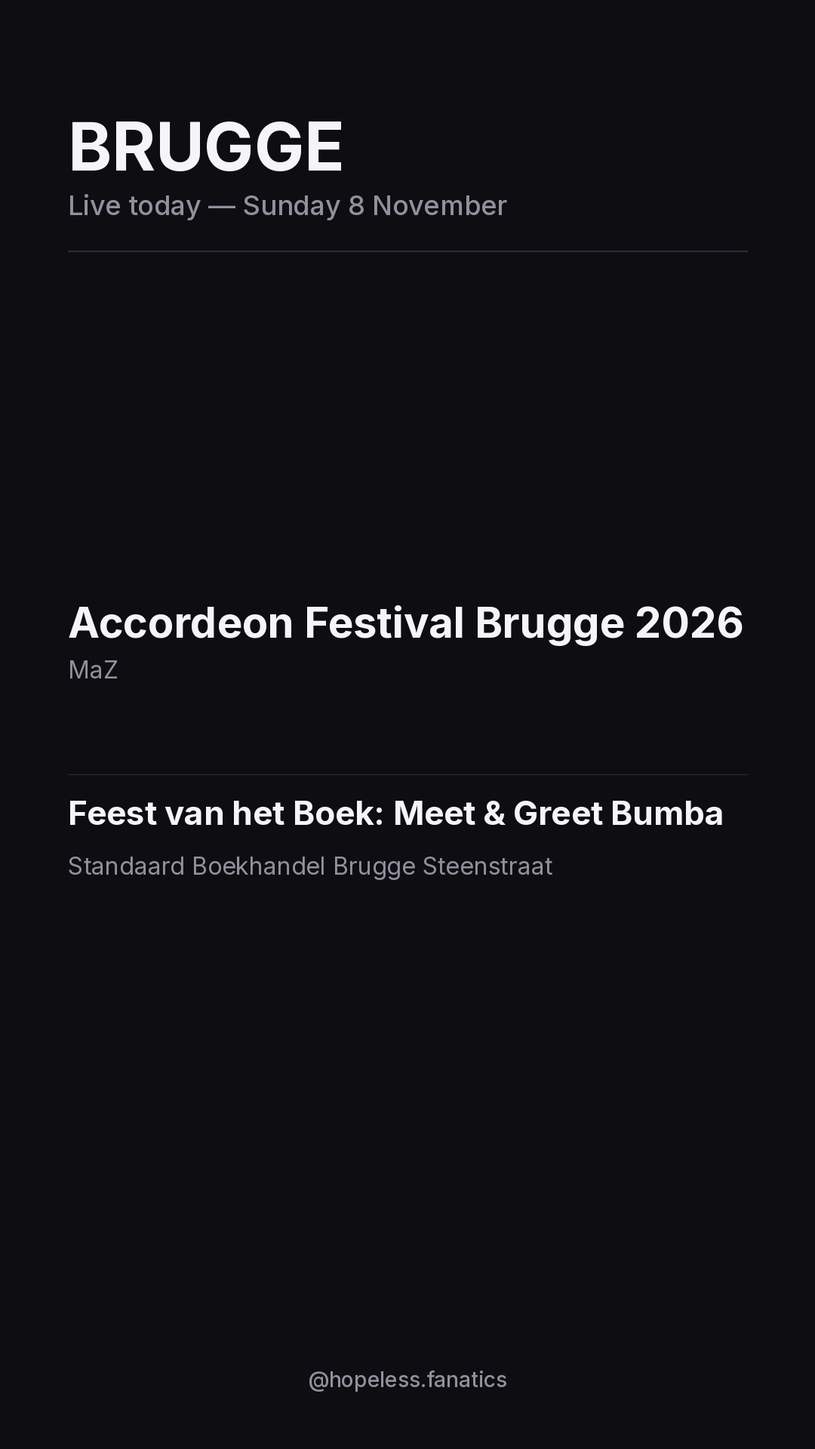
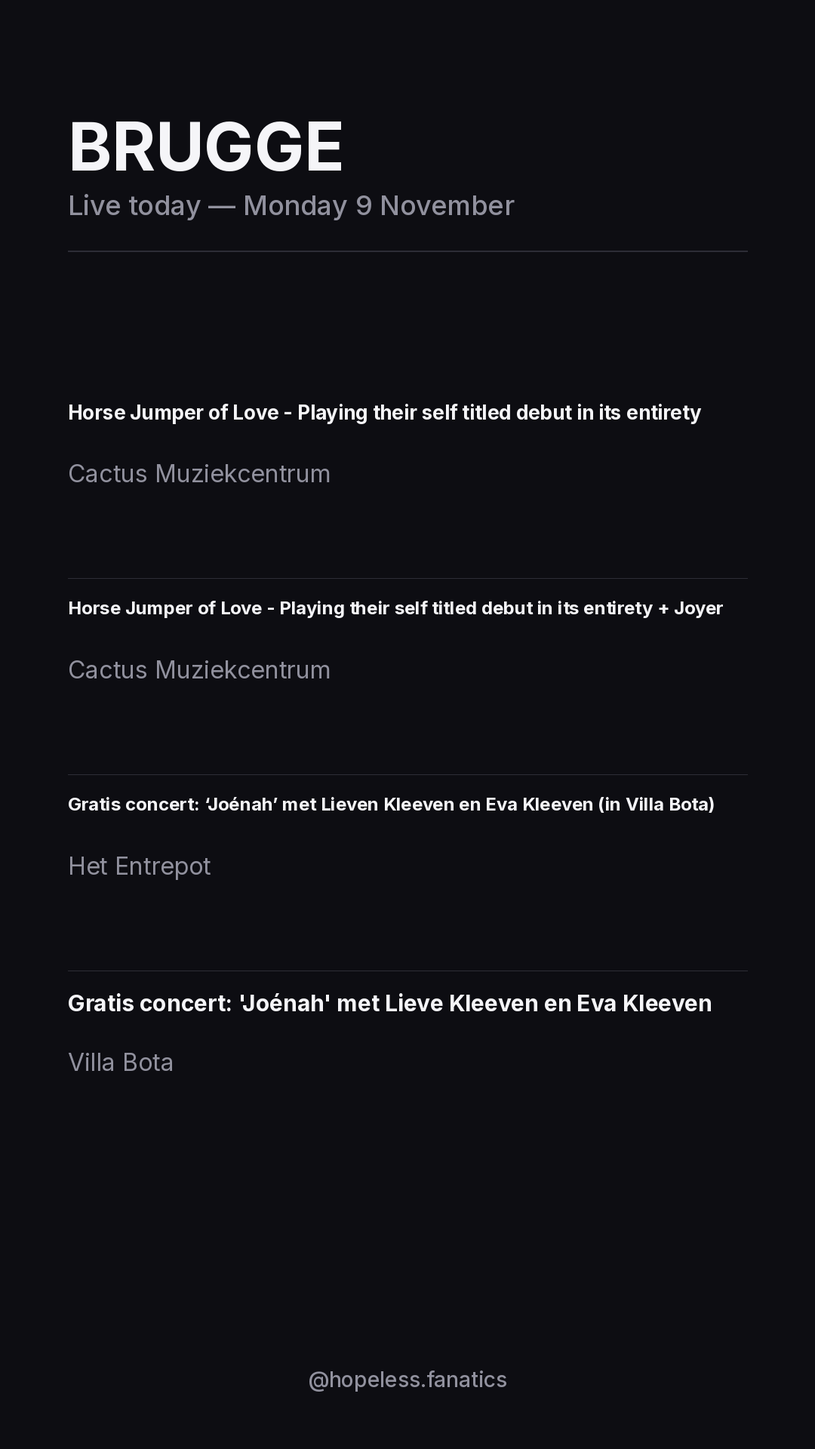
Update concert listing

diff --git a/index.html b/index.html
@@ -128,206 +128,14 @@
       <div class="filters">
         <label>Venue
           <input id="venue-filter" type="search" list="venue-options" placeholder="All venues — type to filter" autocomplete="off">
-          <datalist id="venue-options"><option value="Asgaard Gentbrugge"></option><option value="Bar Lume"></option><option value="Begijnhof Onze-Lieve-Vrouw ter Hoyen Klein Begijnhof Gent"></option><option value="Bibliotheek de Krook"></option><option value="Bij&#x27; De Vieze Gasten"></option><option value="Bijlokesite"></option><option value="Blaisantzaal (kerk)"></option><option value="Buurthuis Het Hoeveke"></option><option value="Café Molotov"></option><option value="Café de Loge"></option><option value="Campus Boekentoren"></option><option value="Capitole Gent"></option><option value="Charlatan"></option><option value="Chinastraat"></option><option value="Christus Koningkerk"></option><option value="Cinema Sphinx"></option><option value="Club Telex"></option><option value="De Bijloke"></option><option value="De Blaisantkerk en de Blaisanterie"></option><option value="De Centrale"></option><option value="De Centrale (Turbinezaal)"></option><option value="De Gang"></option><option value="De Kleine Sikkel"></option><option value="De Koer"></option><option value="De Vierde Zaal"></option><option value="De Vooruit"></option><option value="Ekkergem"></option><option value="Feeszaal Brouwerij Haeseveld"></option><option value="Geheel de Uwe"></option><option value="Gent OLV kerk Klein Begijnhof"></option><option value="Grand Salon CRAL"></option><option value="Ha Concerts"></option><option value="Het Huis van Alijn"></option><option value="Hot Club Gent"></option><option value="Jeugdhuis Asgaard"></option><option value="Kapel Klein Begijnhof"></option><option value="Kapel Petit"></option><option value="Kerk Groot Begijnhof Sint-Elisabeth"></option><option value="Kerk van de Paters Karmelieten Gent"></option><option value="Koorzaal (Hartetroef)"></option><option value="Kunsthal Gent"></option><option value="LDC De Vlaschaard"></option><option value="LDC Speltincx"></option><option value="Logos tetraëder"></option><option value="MIRY concertzaal"></option><option value="Marriott Hotel"></option><option value="Meerdere locaties in Gent en omstreken"></option><option value="Minardschouwburg"></option><option value="Miry Concertzaal"></option><option value="Miry zaal (conservatorium Gent)"></option><option value="Missy Sippy"></option><option value="Muziekcentrum De Bijloke Gent"></option><option value="Muziekcentrum Kinky Star"></option><option value="Muzikantenhuis vzw"></option><option value="NTG  Sint Baafsplein"></option><option value="NTGent Schouwburg"></option><option value="NV Zebrastraat"></option><option value="Nieuwe Melac"></option><option value="O.L.V. Sint-Pieterskerk"></option><option value="Onze Lieve Vrouw Geboortekerk"></option><option value="Orpheus Instituut"></option><option value="Paulushuis"></option><option value="Pentagon"></option><option value="Ringo Music Bar"></option><option value="S.M.A.K. - Stedelijk Museum voor Actuele Kunst"></option><option value="Sint Amanduskerk"></option><option value="Sint Gerolfkerk"></option><option value="Sint Lievenscollege"></option><option value="Sint Niklaaskerk"></option><option value="Sint Pauluskerk"></option><option value="Sint Pieterskerk"></option><option value="Sint-Bernadettekerk"></option><option value="Sint-Coleta Kerk"></option><option value="Sint-Coletakerk"></option><option value="Sint-Lievenskerk"></option><option value="Sint-Stefanuskerk"></option><option value="Sint-Widostraat"></option><option value="Standaard Boekhandel Gent Kouter"></option><option value="Theater Box"></option><option value="Theaterzaal NTGent"></option><option value="Trefpunt - Café"></option><option value="Trefpunt - Concertzaal"></option><option value="VIERNULVIER"></option><option value="Vooruit (concertzaal)"></option><option value="Westerbegraafplaats Gent"></option><option value="Wintercircus"></option><option value="Zaal Club Black Box"></option><option value="Zaal Goedleven"></option><option value="de Felix"></option><option value="de Felix, danzaal"></option><option value="karmelietenkerk"></option><option value="parochiehuis Sint-Paulus"></option></datalist>
+          <datalist id="venue-options"><option value="Asgaard Gentbrugge"></option><option value="Bar Lume"></option><option value="Begijnhof Onze-Lieve-Vrouw ter Hoyen Klein Begijnhof Gent"></option><option value="Bibliotheek de Krook"></option><option value="Bij&#x27; De Vieze Gasten"></option><option value="Bijlokesite"></option><option value="Blaisantzaal (kerk)"></option><option value="Buurthuis Het Hoeveke"></option><option value="Café Molotov"></option><option value="Café de Loge"></option><option value="Campus Boekentoren"></option><option value="Capitole Gent"></option><option value="Charlatan"></option><option value="Chinastraat"></option><option value="Christus Koningkerk"></option><option value="Cinema Sphinx"></option><option value="Club Telex"></option><option value="De Bijloke"></option><option value="De Blaisantkerk en de Blaisanterie"></option><option value="De Centrale"></option><option value="De Centrale (Turbinezaal)"></option><option value="De Gang"></option><option value="De Kleine Sikkel"></option><option value="De Koer"></option><option value="De Vierde Zaal"></option><option value="De Vooruit"></option><option value="Ekkergem"></option><option value="Feeszaal Brouwerij Haeseveld"></option><option value="Geheel de Uwe"></option><option value="Gent OLV kerk Klein Begijnhof"></option><option value="Grand Salon CRAL"></option><option value="Ha Concerts"></option><option value="Het Huis van Alijn"></option><option value="Hot Club Gent"></option><option value="Jeugdhuis Asgaard"></option><option value="Kapel Klein Begijnhof"></option><option value="Kapel Petit"></option><option value="Kerk Groot Begijnhof Sint-Elisabeth"></option><option value="Kerk van de Paters Karmelieten Gent"></option><option value="Koorzaal (Hartetroef)"></option><option value="Kunsthal Gent"></option><option value="LDC De Vlaschaard"></option><option value="LDC Speltincx"></option><option value="MIRY concertzaal"></option><option value="Marriott Hotel"></option><option value="Meerdere locaties in Gent en omstreken"></option><option value="Minardschouwburg"></option><option value="Miry Concertzaal"></option><option value="Miry zaal (conservatorium Gent)"></option><option value="Missy Sippy"></option><option value="Muziekcentrum De Bijloke Gent"></option><option value="Muziekcentrum Kinky Star"></option><option value="Muzikantenhuis vzw"></option><option value="NTG  Sint Baafsplein"></option><option value="NV Zebrastraat"></option><option value="Nieuwe Melac"></option><option value="O.L.V. Sint-Pieterskerk"></option><option value="Onze Lieve Vrouw Geboortekerk"></option><option value="Orpheus Instituut"></option><option value="Paulushuis"></option><option value="Pentagon"></option><option value="Ringo Music Bar"></option><option value="S.M.A.K. - Stedelijk Museum voor Actuele Kunst"></option><option value="Sint Amanduskerk"></option><option value="Sint Gerolfkerk"></option><option value="Sint Lievenscollege"></option><option value="Sint Niklaaskerk"></option><option value="Sint Pauluskerk"></option><option value="Sint Pieterskerk"></option><option value="Sint-Bernadettekerk"></option><option value="Sint-Coleta Kerk"></option><option value="Sint-Coletakerk"></option><option value="Sint-Lievenskerk"></option><option value="Sint-Stefanuskerk"></option><option value="Sint-Widostraat"></option><option value="Theater Box"></option><option value="Theaterzaal NTGent"></option><option value="Trefpunt - Café"></option><option value="Trefpunt - Concertzaal"></option><option value="VIERNULVIER"></option><option value="Vooruit (concertzaal)"></option><option value="Westerbegraafplaats Gent"></option><option value="Wintercircus"></option><option value="Zaal Club Black Box"></option><option value="Zaal Goedleven"></option><option value="de Felix"></option><option value="de Felix, danzaal"></option><option value="karmelietenkerk"></option><option value="parochiehuis Sint-Paulus"></option></datalist>
         </label>
         <label>Genre
           <input id="genre-filter" type="search" list="genre-options" placeholder="All genres — type to filter" autocomplete="off">
-          <datalist id="genre-options"><option value="Belgium"></option><option value="Fusion"></option><option value="Hip-Hop"></option><option value="House"></option><option value="Nederlandstalig"></option><option value="Norway"></option><option value="Post-Metal"></option><option value="Progressive rock"></option><option value="Soundtrack"></option><option value="afrobeat"></option><option value="alternative"></option><option value="angola"></option><option value="belgian"></option><option value="black metal"></option><option value="british"></option><option value="catalan"></option><option value="chicago"></option><option value="chillout"></option><option value="classic rock"></option><option value="dana winner"></option><option value="dance"></option><option value="doom metal"></option><option value="downtempo"></option><option value="dubstep"></option><option value="dutch"></option><option value="easy listening"></option><option value="electronic"></option><option value="emo"></option><option value="female vocalists"></option><option value="folk"></option><option value="france"></option><option value="gypsy jazz"></option><option value="hardcore"></option><option value="heavy"></option><option value="hyperpop"></option><option value="indie"></option><option value="indie pop"></option><option value="indie rock"></option><option value="industrial"></option><option value="jazz"></option><option value="kleinkunst"></option><option value="krautrock"></option><option value="kurdish"></option><option value="metalcore"></option><option value="minimal"></option><option value="netherlands"></option><option value="new age"></option><option value="new wave"></option><option value="noise rock"></option><option value="pop"></option><option value="post-rock"></option><option value="psychobilly"></option><option value="punk"></option><option value="rallye label"></option><option value="rap"></option><option value="rnb"></option><option value="rock"></option><option value="screamo"></option><option value="shoegaze"></option><option value="singer-songwriter"></option><option value="ska"></option><option value="synthpop"></option><option value="turkish"></option><option value="twee"></option><option value="visual kei"></option></datalist>
+          <datalist id="genre-options"><option value="Belgium"></option><option value="Fusion"></option><option value="Hip-Hop"></option><option value="House"></option><option value="Nederlandstalig"></option><option value="Norway"></option><option value="Post-Metal"></option><option value="Progressive rock"></option><option value="Soundtrack"></option><option value="afrobeat"></option><option value="alternative"></option><option value="angola"></option><option value="belgian"></option><option value="black metal"></option><option value="british"></option><option value="catalan"></option><option value="chicago"></option><option value="chillout"></option><option value="classic rock"></option><option value="dana winner"></option><option value="dance"></option><option value="doom metal"></option><option value="downtempo"></option><option value="dubstep"></option><option value="dutch"></option><option value="easy listening"></option><option value="electronic"></option><option value="emo"></option><option value="female vocalists"></option><option value="folk"></option><option value="france"></option><option value="gypsy jazz"></option><option value="hardcore"></option><option value="heavy"></option><option value="hyperpop"></option><option value="indie"></option><option value="indie pop"></option><option value="indie rock"></option><option value="jazz"></option><option value="kleinkunst"></option><option value="krautrock"></option><option value="kurdish"></option><option value="metalcore"></option><option value="minimal"></option><option value="netherlands"></option><option value="new wave"></option><option value="noise rock"></option><option value="pop"></option><option value="post-rock"></option><option value="psychobilly"></option><option value="punk"></option><option value="rallye label"></option><option value="rap"></option><option value="rnb"></option><option value="rock"></option><option value="screamo"></option><option value="shoegaze"></option><option value="singer-songwriter"></option><option value="ska"></option><option value="synthpop"></option><option value="turkish"></option><option value="twee"></option><option value="visual kei"></option></datalist>
         </label>
       </div>
     </div>
-    <section class="day-group" data-date="2026-11-08">
-      <h3 class="day">Sunday 8 November</h3>
-      <article class="row" data-venue="De Centrale" data-genre="">
-        <div class="row__art" style="background-image:linear-gradient(135deg, hsl(311 52% 22%), hsl(6 60% 11%));"></div>
-        <div class="row__main">
-          <h4 class="row__band">Echo’s van Oekraïne</h4>
-          <p class="row__meta">De Centrale</p>
-          <p class="row__desc">Tijdens Echo’s van Oekraïne brengen we artiesten uit Oekraïne, België, Venezuela, Colombia, Kazachstan en Belarus samen voor een bijzondere concertnamiddag. Maak kennis met de rijkdom van de Oekraïense klassieke muziek, verrassende hedendaagse interpretaties en heel veel Gentse culturele…</p>
-        </div>
-        <div class="row__actions"><a class="btn" href="https://www.uitinvlaanderen.be/agenda/e/echo-s-van-oekra-ne/71928ee5-23f0-4527-a2f0-17843fba47c7" target="_blank">Event</a></div>
-      </article>
-      <article class="row" data-venue="Muziekcentrum Kinky Star" data-genre="industrial">
-        <div class="row__art" style="background-image:url('https://i.ytimg.com/vi/z-_HYWqWCqs/mqdefault.jpg'), linear-gradient(135deg, hsl(326 52% 22%), hsl(21 60% 11%));"></div>
-        <div class="row__main">
-          <h4 class="row__band">KINKY KAPOT: Narkose (DE) + TBA</h4>
-          <p class="row__meta">Muziekcentrum Kinky Star · industrial</p>
-          <p class="row__desc">NARKOSE (DE)Narkose stands for aggressive, dark and critical german punk since 2023. Being conducted by four friends from the Ruhr area, the bands unifies influ</p>
-        </div>
-        <div class="row__actions"><a class="btn" href="https://www.kinkystar.com/nl/events/2026-11-08-kinky-kapot-narkose-de-tba" target="_blank">Event</a><a class="btn btn--play" href="https://music.youtube.com/watch?v=z-_HYWqWCqs&amp;list=PLHNvhdg9ZQKM" target="_blank">▶ Listen</a></div>
-      </article>
-      <article class="row" data-venue="Bar Lume" data-genre="">
-        <div class="row__art" style="background-image:linear-gradient(135deg, hsl(99 52% 22%), hsl(154 60% 11%));"></div>
-        <div class="row__main">
-          <h4 class="row__band">afternoonconcert</h4>
-          <p class="row__meta">Bar Lume</p>
-          <p class="row__desc">Jazz and Beyond. Kom in october 2026 genieten van hemelse concerten. Bekijk geregeld onze kalender of schrijf je in voor e-mail updates.</p>
-        </div>
-        <div class="row__actions"><a class="btn" href="https://www.hotclub.gent/programma.php" target="_blank">Event</a></div>
-      </article>
-      <article class="row" data-venue="Bar Lume" data-genre="rallye label">
-        <div class="row__art" style="background-image:url('https://i.ytimg.com/vi/bGQkv4nKvIY/mqdefault.jpg'), linear-gradient(135deg, hsl(12 52% 22%), hsl(67 60% 11%));"></div>
-        <div class="row__main">
-          <h4 class="row__band">concert</h4>
-          <p class="row__meta">Bar Lume · rallye label</p>
-          <p class="row__desc">Jazz and Beyond. Kom in october 2026 genieten van hemelse concerten. Bekijk geregeld onze kalender of schrijf je in voor e-mail updates.</p>
-        </div>
-        <div class="row__actions"><a class="btn" href="https://www.hotclub.gent/programma.php" target="_blank">Event</a><a class="btn btn--play" href="https://music.youtube.com/watch?v=bGQkv4nKvIY&amp;list=PLHNvhdg9ZQKM" target="_blank">▶ Listen</a></div>
-      </article>
-      <article class="row" data-venue="Hot Club Gent" data-genre="">
-        <div class="row__art" style="background-image:linear-gradient(135deg, hsl(184 52% 22%), hsl(239 60% 11%));"></div>
-        <div class="row__main">
-          <h4 class="row__band">The JAZZVENTURES</h4>
-          <p class="row__meta">Hot Club Gent</p>
-          <p class="row__desc">Jazz and Beyond. Kom in october 2026 genieten van hemelse concerten. Bekijk geregeld onze kalender of schrijf je in voor e-mail updates.</p>
-        </div>
-        <div class="row__actions"><a class="btn" href="https://www.hotclub.gent/programma.php" target="_blank">Event</a></div>
-      </article>
-      <article class="row" data-venue="Muziekcentrum Kinky Star" data-genre="industrial">
-        <div class="row__art" style="background-image:url('https://i.ytimg.com/vi/z-_HYWqWCqs/mqdefault.jpg'), linear-gradient(135deg, hsl(33 52% 22%), hsl(88 60% 11%));"></div>
-        <div class="row__main">
-          <h4 class="row__band">KINKY KAPOT: Narkose (DE) + Landrot (BE)</h4>
-          <p class="row__meta">Muziekcentrum Kinky Star · industrial</p>
-          <p class="row__desc">NARKOSE (DE)Narkose stands for aggressive, dark and critical german punk since 2023. Being conducted by four friends from the Ruhr area, the bands unifies influ</p>
-        </div>
-        <div class="row__actions"><a class="btn" href="https://www.kinkystar.com/nl/events/2026-11-08-kinky-kapot-narkose-de-landrot-be" target="_blank">Event</a><a class="btn btn--play" href="https://music.youtube.com/watch?v=z-_HYWqWCqs&amp;list=PLHNvhdg9ZQKM" target="_blank">▶ Listen</a></div>
-      </article>
-      <article class="row" data-venue="Missy Sippy" data-genre="synthpop">
-        <div class="row__art" style="background-image:url('https://i.ytimg.com/vi/MxUnH_P9_kQ/mqdefault.jpg'), linear-gradient(135deg, hsl(156 52% 22%), hsl(211 60% 11%));"></div>
-        <div class="row__main">
-          <h4 class="row__band">Darker</h4>
-          <p class="row__meta">Missy Sippy · synthpop</p>
-          <p class="row__desc">Een muzikale vertelling rond de tijdloze songs van Leonard Cohen.</p>
-        </div>
-        <div class="row__actions"><a class="btn" href="https://www.eventbrite.be/e/darker-the-songs-of-leonard-cohen-clubshow-missy-sippy-tickets-2002611557076" target="_blank">Event</a><a class="btn btn--play" href="https://music.youtube.com/watch?v=MxUnH_P9_kQ&amp;list=PLHNvhdg9ZQKM" target="_blank">▶ Listen</a></div>
-      </article>
-      <article class="row" data-venue="VIERNULVIER" data-genre="black metal">
-        <div class="row__art" style="background-image:url('https://i.ytimg.com/vi/s0zl1TUJvs0/mqdefault.jpg'), linear-gradient(135deg, hsl(328 52% 22%), hsl(23 60% 11%));"></div>
-        <div class="row__main">
-          <h4 class="row__band">BETHLEHEM</h4>
-          <p class="row__meta">VIERNULVIER · black metal</p>
-          <p class="row__desc">Een zondagsviering vol veerkracht en troost door kunst. Het internationaal gedragen project ‘BETHLEHEM’ van Lawrence Sammour, Sary Moussa en Abed Kobeissy houdt halt in de kerk van het Oud Begijnhof S…</p>
-        </div>
-        <div class="row__actions"><a class="btn" href="https://www.viernulvier.gent/nl/agenda/bethlehem-skm9" target="_blank">Event</a><a class="btn btn--play" href="https://music.youtube.com/watch?v=s0zl1TUJvs0&amp;list=PLHNvhdg9ZQKM" target="_blank">▶ Listen</a></div>
-      </article>
-      <article class="row" data-venue="Ha Concerts" data-genre="new age">
-        <div class="row__art" style="background-image:url('https://i.ytimg.com/vi/xQzTEwqKuPw/mqdefault.jpg'), linear-gradient(135deg, hsl(253 52% 22%), hsl(308 60% 11%));"></div>
-        <div class="row__main">
-          <h4 class="row__band">Di Domenico / Cabras / Thielemans</h4>
-          <p class="row__meta">Ha Concerts · new age</p>
-          <p class="row__desc">Dit concert vindt plaats op locatie: Café Django, Antwerpsesteenweg 330, 9040 Gent Gent heeft als muziekstad een rijke voedingsbodem. Om dit vooral zo te houden, ondersteunen we dit voorjaar Troika vzw in hun missie om met avontuurlijke muziek nieuwsgierige oren aan te scherpen.  Giovanni Di…</p>
-        </div>
-        <div class="row__actions"><a class="btn" href="https://www.uitinvlaanderen.be/agenda/e/di-domenico-cabras-thielemans/31d335de-9482-4714-9f5e-b2efc969349e" target="_blank">Event</a><a class="btn btn--play" href="https://music.youtube.com/watch?v=xQzTEwqKuPw&amp;list=PLHNvhdg9ZQKM" target="_blank">▶ Listen</a></div>
-      </article>
-      <article class="row" data-venue="Logos tetraëder" data-genre="">
-        <div class="row__art" style="background-image:linear-gradient(135deg, hsl(325 52% 22%), hsl(20 60% 11%));"></div>
-        <div class="row__main">
-          <h4 class="row__band">Pioniers van de tweede golf (elektroakoestische muziek) - Muzikale Robots</h4>
-          <p class="row__meta">Logos tetraëder</p>
-          <p class="row__desc">Binnen het kader van de Belgian Music Days organiseert ComAV twee concerten: CONCERT 1 - Elektronische muziek van &#x27; De pioniers van de tweede golf &#x27; CONCERT 2 - Muziek van Belgische componisten geschreven voor het Logos Robotorkest Lees hieronder de bijzonderheden: CONCERT 1 - Elektronische muziek…</p>
-        </div>
-        <div class="row__actions"><a class="btn" href="https://www.uitinvlaanderen.be/agenda/e/pioniers-van-de-tweede-golf-elektroakoestische-muziek-muzikale-robots/37629509-6abc-4794-b000-3118d4f55eb7" target="_blank">Event</a></div>
-      </article>
-      <article class="row" data-venue="Standaard Boekhandel Gent Kouter" data-genre="">
-        <div class="row__art" style="background-image:linear-gradient(135deg, hsl(52 52% 22%), hsl(107 60% 11%));"></div>
-        <div class="row__main">
-          <h4 class="row__band">Feest van het Boek: Voorleessessie Höngry</h4>
-          <p class="row__meta">Standaard Boekhandel Gent Kouter</p>
-          <p class="row__desc">Ben jij ook zo fan van de gezonde hoofdpersonages in de Höngryboeken? Op 8 november komt Bieke Biesbrouck voorlezen uit haar nieuwste boek, &#x27;In de Puree&#x27;. Kom meeluisteren naar de laatste avonturen van &#x27;Teddy Tomaat&#x27; en zijn vrienden. Dit evenement kadert in Feest van het Boek (…</p>
-        </div>
-        <div class="row__actions"><a class="btn" href="https://www.uitinvlaanderen.be/agenda/e/feest-van-het-boek-voorleessessie-h-ngry/986eadfe-cbf9-4e64-b106-e35fce86fcf3" target="_blank">Event</a></div>
-      </article>
-      <article class="row" data-venue="Standaard Boekhandel Gent Kouter" data-genre="">
-        <div class="row__art" style="background-image:linear-gradient(135deg, hsl(29 52% 22%), hsl(84 60% 11%));"></div>
-        <div class="row__main">
-          <h4 class="row__band">Feest van het Boek: Meet &amp; Greet Jeroen Somers</h4>
-          <p class="row__meta">Standaard Boekhandel Gent Kouter</p>
-          <p class="row__desc">Auteur Jeroen Somers komt zijn boek &#x27;Zakboek voor de beginnende belegger&#x27; voorstellen met aansluitend een Q&amp;A. Tijdens ons Feest van het boek neemt auteur Jeroen Somers je mee in de wondere wereld van beleggen in zijn boek &#x27;Zakboek voor de beginnende belegger&#x27;. Wil je graag weten hoe hier aan te…</p>
-        </div>
-        <div class="row__actions"><a class="btn" href="https://www.uitinvlaanderen.be/agenda/e/feest-van-het-boek-meet-greet-jeroen-somers/77a39402-63a1-455a-bed8-885b0512a7b5" target="_blank">Event</a></div>
-      </article>
-      <article class="row" data-venue="Standaard Boekhandel Gent Kouter" data-genre="">
-        <div class="row__art" style="background-image:linear-gradient(135deg, hsl(254 52% 22%), hsl(309 60% 11%));"></div>
-        <div class="row__main">
-          <h4 class="row__band">Feest van het Boek: YA signeersessie</h4>
-          <p class="row__meta">Standaard Boekhandel Gent Kouter</p>
-          <p class="row__desc">Op zondag 8 november staat er een dubbele signeersessie gepland. Kom langs en bemachtig een gesigneerd exemplaar van een YA-auteur! Yasmine Van Den Meersch schreef met &#x27;De Heerser van de Natuur&#x27; alweer een spannend fantasyverhaal.  Zij wordt in onze winkel vergezeld door Adriana M. Giovanni, die…</p>
-        </div>
-        <div class="row__actions"><a class="btn" href="https://www.uitinvlaanderen.be/agenda/e/feest-van-het-boek-ya-signeersessie/2a427632-c3eb-4d7a-a81d-33750b5d425c" target="_blank">Event</a></div>
-      </article>
-      <article class="row" data-venue="Standaard Boekhandel Gent Kouter" data-genre="">
-        <div class="row__art" style="background-image:linear-gradient(135deg, hsl(179 52% 22%), hsl(234 60% 11%));"></div>
-        <div class="row__main">
-          <h4 class="row__band">Feest van het Boek: Meet &amp; Greet Herman Brusselmans</h4>
-          <p class="row__meta">Standaard Boekhandel Gent Kouter</p>
-          <p class="row__desc">Herman Brusselmans schreef met &#x27;De Lamzak&#x27; alweer een scherpe en pakkende roman. Kom je gesigneerde exemplaar bemachtigen in onze winkel. Dit evenement kadert in Feest van het Boek ( www.standaardboekhandel.be/feest-van-het-boek ).</p>
-        </div>
-        <div class="row__actions"><a class="btn" href="https://www.uitinvlaanderen.be/agenda/e/feest-van-het-boek-meet-greet-herman-brusselmans/f38d9914-61c0-47f2-8592-1dd973eb5103" target="_blank">Event</a></div>
-      </article>
-      <article class="row" data-venue="Standaard Boekhandel Gent Kouter" data-genre="">
-        <div class="row__art" style="background-image:linear-gradient(135deg, hsl(147 52% 22%), hsl(202 60% 11%));"></div>
-        <div class="row__main">
-          <h4 class="row__band">Feest van het Boek: Workshop Aline Gielies</h4>
-          <p class="row__meta">Standaard Boekhandel Gent Kouter</p>
-          <p class="row__desc">In haar boek &#x27;Natuurlijk gekleurd&#x27; toont Aline Gielis hoe je op duurzame wijze textiel kan verven en zo je kleren een nieuwe &quot;look&quot; geeft. Op 8 november geeft zij een demonstratie van dit proces in onze winkel en krijg je zelf de kans een scrunchie te personaliseren. Heb je genoeg van fast fashion?…</p>
-        </div>
-        <div class="row__actions"><a class="btn" href="https://www.uitinvlaanderen.be/agenda/e/feest-van-het-boek-workshop-aline-gielies/71b4de6b-9fc1-4e74-83a6-4e87ff719bc2" target="_blank">Event</a></div>
-      </article>
-      <article class="row" data-venue="Bar Lume" data-genre="">
-        <div class="row__art" style="background-image:linear-gradient(135deg, hsl(248 52% 22%), hsl(303 60% 11%));"></div>
-        <div class="row__main">
-          <h4 class="row__band">afternoonconcert &gt; GREVAZALVAS</h4>
-          <p class="row__meta">Bar Lume</p>
-          <p class="row__desc">Jazz and Beyond. Kom in october 2026 genieten van hemelse concerten. Bekijk geregeld onze kalender of schrijf je in voor e-mail updates.</p>
-        </div>
-        <div class="row__actions"><a class="btn" href="https://www.hotclub.gent/programma.php" target="_blank">Event</a></div>
-      </article>
-      <article class="row" data-venue="Bar Lume" data-genre="">
-        <div class="row__art" style="background-image:linear-gradient(135deg, hsl(212 52% 22%), hsl(267 60% 11%));"></div>
-        <div class="row__main">
-          <h4 class="row__band">concerts &gt; LA SUPERBA</h4>
-          <p class="row__meta">Bar Lume</p>
-          <p class="row__desc">Jazz and Beyond. Kom in october 2026 genieten van hemelse concerten. Bekijk geregeld onze kalender of schrijf je in voor e-mail updates.</p>
-        </div>
-        <div class="row__actions"><a class="btn" href="https://www.hotclub.gent/programma.php" target="_blank">Event</a></div>
-      </article>
-      <article class="row" data-venue="Hot Club Gent" data-genre="">
-        <div class="row__art" style="background-image:linear-gradient(135deg, hsl(175 52% 22%), hsl(230 60% 11%));"></div>
-        <div class="row__main">
-          <h4 class="row__band">JEFF MABILDE Quartet</h4>
-          <p class="row__meta">Hot Club Gent</p>
-          <p class="row__desc">Jazz and Beyond. Kom in october 2026 genieten van hemelse concerten. Bekijk geregeld onze kalender of schrijf je in voor e-mail updates.</p>
-        </div>
-        <div class="row__actions"><a class="btn" href="https://www.hotclub.gent/programma.php" target="_blank">Event</a></div>
-      </article>
-      <article class="row" data-venue="Café de Loge" data-genre="">
-        <div class="row__art" style="background-image:linear-gradient(135deg, hsl(0 52% 22%), hsl(55 60% 11%));"></div>
-        <div class="row__main">
-          <h4 class="row__band">Frances Soen</h4>
-          <p class="row__meta">Café de Loge</p>
-          <p class="row__desc">Een eigenzinnige stem, warme, dromerige songs die recht uit het hart komen en een overvloed aan charme: dat is Frances Soen . Wat klein en intuïtief begon tussen broer en zus, groeide uit tot een persoonlijk repertoire van Nederlandstalige songs die aanvoelen als pagina’s uit een dagboek: eerlijk,…</p>
-        </div>
-        <div class="row__actions"><a class="btn" href="https://www.uitinvlaanderen.be/agenda/e/frances-soen/e8b76908-cdcc-4d5d-bef1-d420ab224695" target="_blank">Event</a></div>
-      </article>
-      <article class="row" data-venue="De Bijloke" data-genre="">
-        <div class="row__art" style="background-image:linear-gradient(135deg, hsl(341 52% 22%), hsl(36 60% 11%));"></div>
-        <div class="row__main">
-          <h4 class="row__band">Orphée et Eurydice, Christoph Willibald Gluck</h4>
-          <p class="row__meta">De Bijloke</p>
-          <p class="row__desc">SPANNEND MUZIEKDRAMA OP FRANSE WIJZE - concertante opera Orphée et Eurydice van Christoph Willibald Gluck is volbloed Franse opera en een ijzersterk drama. Vooraanstaande solisten en koor en orkest van Opera Ballet Vlaanderen onder leiding van Francesco Corti beloven een luisterervaring van formaat.</p>
-        </div>
-        <div class="row__actions"><a class="btn" href="https://www.uitinvlaanderen.be/agenda/e/orph-e-et-eurydice-christoph-willibald-gluck/bb6043d5-7fad-44c3-a950-a52902205fae" target="_blank">Event</a></div>
-      </article>
-      <article class="row" data-venue="NTGent Schouwburg" data-genre="">
-        <div class="row__art" style="background-image:linear-gradient(135deg, hsl(101 52% 22%), hsl(156 60% 11%));"></div>
-        <div class="row__main">
-          <h4 class="row__band">De opstand van de gevels - De Opera, Thomas Verstraeten</h4>
-          <p class="row__meta">NTGent Schouwburg</p>
-          <p class="row__desc">EEN VERKLANKING VAN DE STAD Tijdens het festival Odegand op zaterdag 12 september, zullen in Gent twee gevels zich losrukken van de huizenrij en verwisselen van plaats. Vergezeld door buurtbewoners en muzikanten komen ze elkaar in een optocht tegemoet. Thomas Verstraeten nodigt iedereen uit om dat…</p>
-        </div>
-        <div class="row__actions"><a class="btn" href="https://www.uitinvlaanderen.be/agenda/e/de-opstand-van-de-gevels-de-opera-thomas-verstraeten/d7b0d20d-962a-4b43-a78b-2441c836d35b" target="_blank">Event</a></div>
-      </article>
-    </section>
     <section class="day-group" data-date="2026-11-09">
       <h3 class="day">Monday 9 November</h3>
       <article class="row" data-venue="Muziekcentrum De Bijloke Gent" data-genre="">
@@ -518,6 +326,15 @@ And this time, we&#x27;re bringing live music into the mix! The Replicas will ki
           <p class="row__desc">Doors: 19u30 // 20u: Mano Trio // 21u30: A Galaxy, Fairly Close-By / Monne Verschaeve Quintet - Free entry ★ A Galaxy, Fairly Close-By - Sinds enkele jaren timmert het Monne Verschaeve Quintet aan frisse jazzherwerkingen van iconische muziek uit het Star Wars-universum, met ruimte voor improvisatie…</p>
         </div>
         <div class="row__actions"><a class="btn" href="https://www.uitinvlaanderen.be/agenda/e/in-a-galaxy-fairly-close-by-support-mano-trio-telex-club-night/c9252a72-a27b-4577-a244-ebfaa2314e6f" target="_blank">Event</a></div>
+      </article>
+      <article class="row" data-venue="De Bijloke" data-genre="">
+        <div class="row__art" style="background-image:linear-gradient(135deg, hsl(341 52% 22%), hsl(36 60% 11%));"></div>
+        <div class="row__main">
+          <h4 class="row__band">Orphée et Eurydice, Christoph Willibald Gluck</h4>
+          <p class="row__meta">De Bijloke</p>
+          <p class="row__desc">SPANNEND MUZIEKDRAMA OP FRANSE WIJZE - concertante opera Orphée et Eurydice van Christoph Willibald Gluck is volbloed Franse opera en een ijzersterk drama. Vooraanstaande solisten en koor en orkest van Opera Ballet Vlaanderen onder leiding van Francesco Corti beloven een luisterervaring van formaat.</p>
+        </div>
+        <div class="row__actions"><a class="btn" href="https://www.uitinvlaanderen.be/agenda/e/orph-e-et-eurydice-christoph-willibald-gluck/5b7dd5d5-c116-45bf-82af-52a03d3dc092" target="_blank">Event</a></div>
       </article>
     </section>
     <section class="day-group" data-date="2026-11-11">
@@ -3199,6 +3016,15 @@ Virtuoze genialiteit, totale beheersing van zijn instrument, en de gave om beken
         </div>
         <div class="row__actions"><a class="btn" href="https://www.viernulvier.gent/nl/agenda/nausca-5jc4" target="_blank">Event</a><a class="btn btn--play" href="https://music.youtube.com/watch?v=aZQvG4iU7M8&amp;list=PLHNvhdg9ZQKM" target="_blank">▶ Listen</a></div>
       </article>
+      <article class="row" data-venue="Trefpunt - Café" data-genre="">
+        <div class="row__art" style="background-image:linear-gradient(135deg, hsl(229 52% 22%), hsl(284 60% 11%));"></div>
+        <div class="row__main">
+          <h4 class="row__band">Folkjam</h4>
+          <p class="row__meta">Trefpunt - Café</p>
+          <p class="row__desc">Heb je een instrument, een lievelingsmelodie of gewoon zin om mee te luisteren? Kom dan op 10 december naar Trefpunt Café voor een open folkjam!Van 19u…</p>
+        </div>
+        <div class="row__actions"><a class="btn" href="https://trefpuntfestival.be/programma/folkjam-trefpunt-café" target="_blank">Event</a></div>
+      </article>
     </section>
     <section class="day-group" data-date="2026-12-11">
       <h3 class="day">Friday 11 December</h3>
@@ -3275,6 +3101,15 @@ Met Sylvain.</p>
           <p class="row__desc">Er hangt iets in de lucht bij Accueil. En nee, het is niet de geur van versgebakken wafels. De jaarlijkse wafelbak wordt een pannenkoekenbak.</p>
         </div>
         <div class="row__actions"><a class="btn" href="https://trefpuntfestival.be/programma/vandaag-in-de-pan-pannenkoeken-voor-een-goed-doel" target="_blank">Event</a></div>
+      </article>
+      <article class="row" data-venue="VIERNULVIER" data-genre="hardcore">
+        <div class="row__art" style="background-image:url('https://i.ytimg.com/vi/eW3KErbXq_I/mqdefault.jpg'), linear-gradient(135deg, hsl(77 52% 22%), hsl(132 60% 11%));"></div>
+        <div class="row__main">
+          <h4 class="row__band">Oathbreaker</h4>
+          <p class="row__meta">VIERNULVIER · hardcore</p>
+          <p class="row__desc">De terugkeer van Oathbreaker is meer dan alleen een reünie: het bevestigt opnieuw de urgentie, relevantie en emotionele diepgang die hen altijd hebben onderscheiden. Met special guests Portrayal of Gu…</p>
+        </div>
+        <div class="row__actions"><a class="btn" href="https://www.viernulvier.gent/nl/agenda/oathbreaker-7pyh" target="_blank">Event</a><a class="btn btn--play" href="https://music.youtube.com/watch?v=eW3KErbXq_I&amp;list=PLHNvhdg9ZQKM" target="_blank">▶ Listen</a></div>
       </article>
     </section>
     <section class="day-group" data-date="2026-12-12">

diff --git a/brugge.html b/brugge.html
@@ -128,7 +128,7 @@
       <div class="filters">
         <label>Venue
           <input id="venue-filter" type="search" list="venue-options" placeholder="All venues — type to filter" autocomplete="off">
-          <datalist id="venue-options"><option value="Begijnhofkerk"></option><option value="Belfort Brugge"></option><option value="Brouwerij De Halve Maan"></option><option value="Cactus Muziekcentrum"></option><option value="Cinema Lumière Brugge"></option><option value="Concertgebouw"></option><option value="Concertgebouw - Kamermuziekzaal"></option><option value="Concertgebouw, concertzaal"></option><option value="De Kave"></option><option value="De Kelk"></option><option value="Engels Klooster Carmersstraat 83b"></option><option value="Heilig Hart en Sint-Philippuskerk Steenbrugge"></option><option value="Heilig-bloed kapel"></option><option value="Het Entrepot"></option><option value="Historische muur (zijde Oude Gentweg)"></option><option value="Ingang Historium"></option><option value="Izzy JazzClub"></option><option value="KAAP"></option><option value="KORF"></option><option value="Kerk Christus Koning"></option><option value="Kerk Heilige Kruisverheffing, Sint-Kruis"></option><option value="Kerk Sint-Jozef"></option><option value="Koninklijke Stadsschouwburg"></option><option value="MaZ"></option><option value="Masereelhuis Brugge, ingang Korte Lane"></option><option value="Onze-Lieve-Vrouw-van-Blindekenskapel"></option><option value="Orgelzaal Muziekconservatorium Brugge"></option><option value="Polyvalente zaal in het tuinpaviljoen van &#x27;De Brug&#x27;"></option><option value="Provinciaal Hof"></option><option value="Provincie West-Vlaanderen"></option><option value="Ryelandtzaal"></option><option value="Sint-Gilliskerk"></option><option value="Snuffel Hostel"></option><option value="St.-Thomas Van Kantelberg Kerk Sint-Kruis"></option><option value="Stadsschouwburg Brugge"></option><option value="Standaard Boekhandel Brugge Steenstraat"></option><option value="Villa Bota"></option><option value="Zaal De Polder"></option></datalist>
+          <datalist id="venue-options"><option value="Begijnhofkerk"></option><option value="Belfort Brugge"></option><option value="Brouwerij De Halve Maan"></option><option value="Cactus Muziekcentrum"></option><option value="Cinema Lumière Brugge"></option><option value="Concertgebouw"></option><option value="Concertgebouw - Kamermuziekzaal"></option><option value="Concertgebouw, concertzaal"></option><option value="De Kave"></option><option value="De Kelk"></option><option value="Engels Klooster Carmersstraat 83b"></option><option value="Heilig Hart en Sint-Philippuskerk Steenbrugge"></option><option value="Heilig-bloed kapel"></option><option value="Het Entrepot"></option><option value="Historische muur (zijde Oude Gentweg)"></option><option value="Ingang Historium"></option><option value="Izzy JazzClub"></option><option value="KAAP"></option><option value="KORF"></option><option value="Kerk Christus Koning"></option><option value="Kerk Heilige Kruisverheffing, Sint-Kruis"></option><option value="Kerk Sint-Jozef"></option><option value="Koninklijke Stadsschouwburg"></option><option value="MaZ"></option><option value="Masereelhuis Brugge, ingang Korte Lane"></option><option value="Onze-Lieve-Vrouw-van-Blindekenskapel"></option><option value="Orgelzaal Muziekconservatorium Brugge"></option><option value="Polyvalente zaal in het tuinpaviljoen van &#x27;De Brug&#x27;"></option><option value="Provinciaal Hof"></option><option value="Provincie West-Vlaanderen"></option><option value="Ryelandtzaal"></option><option value="Sint-Gilliskerk"></option><option value="Snuffel Hostel"></option><option value="St.-Thomas Van Kantelberg Kerk Sint-Kruis"></option><option value="Stadsschouwburg Brugge"></option><option value="Villa Bota"></option><option value="Zaal De Polder"></option></datalist>
         </label>
         <label>Genre
           <input id="genre-filter" type="search" list="genre-options" placeholder="All genres — type to filter" autocomplete="off">
@@ -136,27 +136,6 @@
         </label>
       </div>
     </div>
-    <section class="day-group" data-date="2026-11-08">
-      <h3 class="day">Sunday 8 November</h3>
-      <article class="row" data-venue="MaZ" data-genre="">
-        <div class="row__art" style="background-image:linear-gradient(135deg, hsl(92 52% 22%), hsl(147 60% 11%));"></div>
-        <div class="row__main">
-          <h4 class="row__band">Accordeon Festival Brugge 2026</h4>
-          <p class="row__meta">MaZ</p>
-          <p class="row__desc">WE DOEN HET NOG EENS OPNIEUW in 2026 ! Welkom bij het Accordeon Festival Brugge ! Na een zeer geslaagde editie in 2025, kijken we enorm uit naar de editie van dit jaar. Het belooft een evenement te worden om naar uit te kijken, met gerenomeerde accordeonisten en groepen uit België en…</p>
-        </div>
-        <div class="row__actions"><a class="btn" href="https://www.uitinvlaanderen.be/agenda/e/accordeon-festival-brugge-2026/9bd96323-c710-4f89-8ac4-00c8e66cfc03" target="_blank">Event</a></div>
-      </article>
-      <article class="row" data-venue="Standaard Boekhandel Brugge Steenstraat" data-genre="">
-        <div class="row__art" style="background-image:linear-gradient(135deg, hsl(341 52% 22%), hsl(36 60% 11%));"></div>
-        <div class="row__main">
-          <h4 class="row__band">Feest van het Boek: Meet &amp; Greet Bumba</h4>
-          <p class="row__meta">Standaard Boekhandel Brugge Steenstraat</p>
-          <p class="row__desc">Hoera! Bumba komt naar onze winkel! Bumba komt op zondag 8 november in de namiddag naar onze winkel. Kom langs, ontmoet Bumba, maak een leuke foto en beleef samen een onvergetelijk moment. Dit evenement kadert in Feest van het Boek ( www.standaardboekhandel.be/feest-van-het-boek ).</p>
-        </div>
-        <div class="row__actions"><a class="btn" href="https://www.uitinvlaanderen.be/agenda/e/feest-van-het-boek-meet-greet-bumba/e2bf6a95-4de5-4c74-b2dd-39d49ced4eac" target="_blank">Event</a></div>
-      </article>
-    </section>
     <section class="day-group" data-date="2026-11-09">
       <h3 class="day">Monday 9 November</h3>
       <article class="row" data-venue="Cactus Muziekcentrum" data-genre="slowcore">
